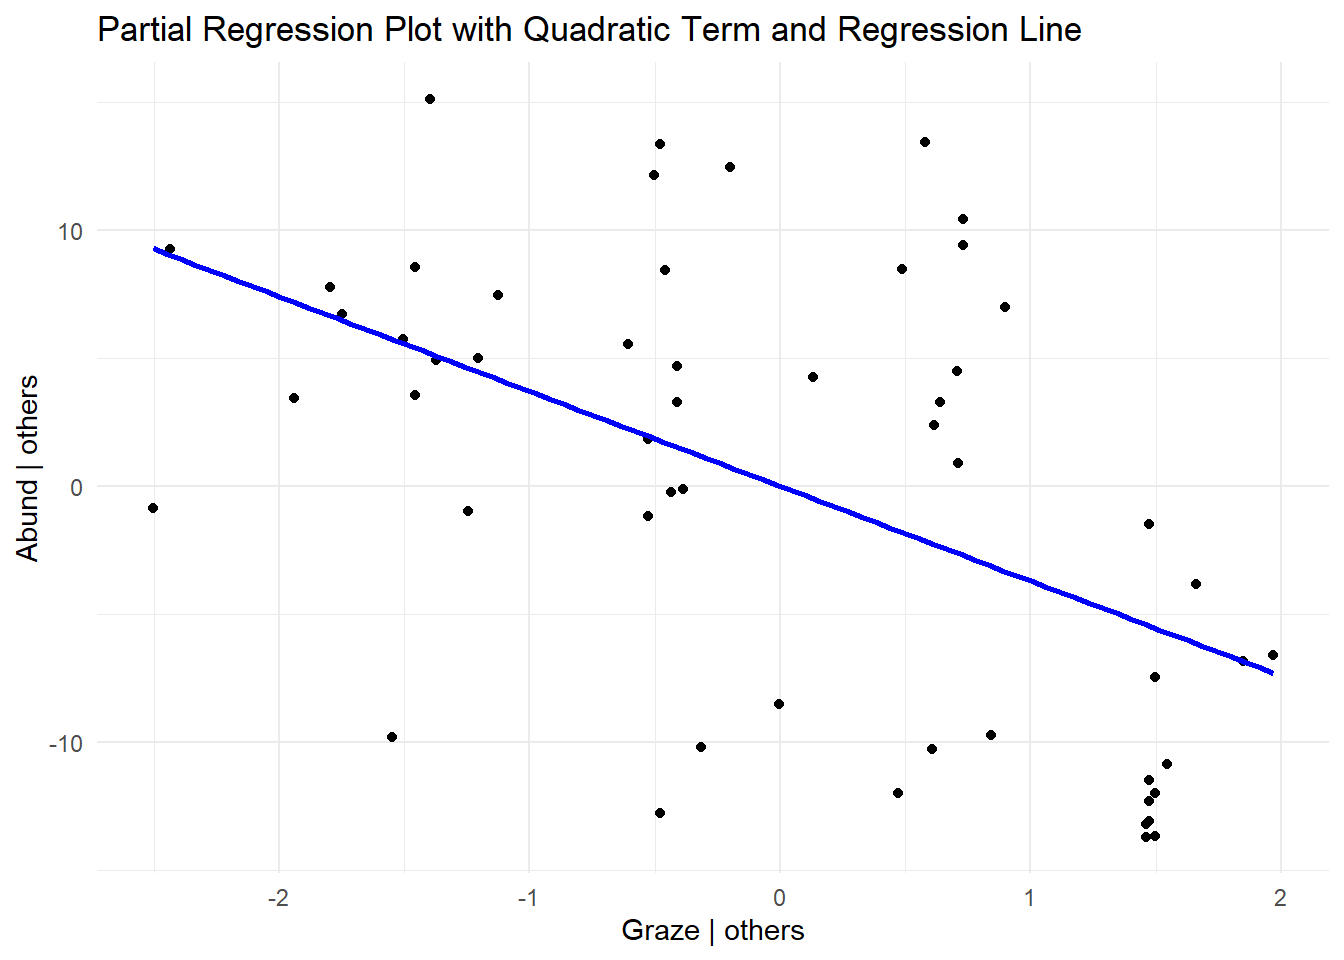
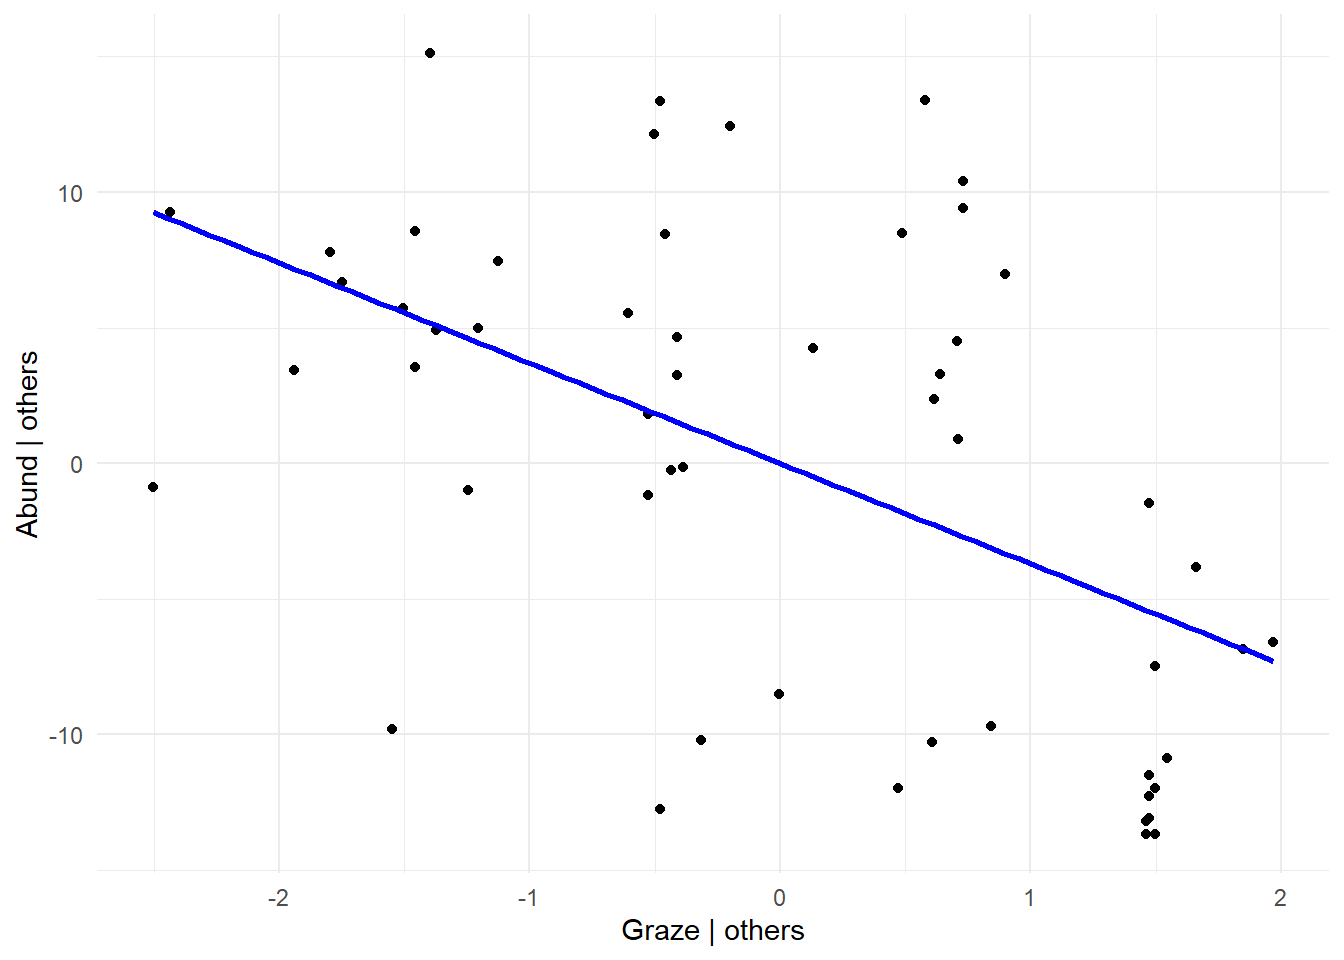
Built site for gh-pages

diff --git a/statistik/Statistik4_Demo.html b/statistik/Statistik4_Demo.html
@@ -642,7 +642,7 @@ ALT      0   0    0     0     0   1</code></pre>
 </div>
 <p>-&gt; Plot sieht zwar OK aus, aber mit 6 Prädiktoren für |&lt;60| Beobachtungen ist das Modell wohl “overfitted”</p>
 <div class="cell">
-<div class="sourceCode cell-code" id="cb13"><pre class="sourceCode r code-with-copy"><code class="sourceCode r"><span id="cb13-1"><a href="#cb13-1" aria-hidden="true" tabindex="-1"></a><span class="co"># Andere Vatiante, um korrelierte Prädiktoren zu finden (üblicher Schwellenwert VIF = 5)</span></span>
+<div class="sourceCode cell-code" id="cb13"><pre class="sourceCode r code-with-copy"><code class="sourceCode r"><span id="cb13-1"><a href="#cb13-1" aria-hidden="true" tabindex="-1"></a><span class="co"># Andere Variante, um korrelierte Prädiktoren zu finden (üblicher Schwellenwert VIF = 5)</span></span>
 <span id="cb13-2"><a href="#cb13-2" aria-hidden="true" tabindex="-1"></a><span class="fu">p_load</span>(<span class="st">"car"</span>)</span>
 <span id="cb13-3"><a href="#cb13-3" aria-hidden="true" tabindex="-1"></a><span class="fu">vif</span>(lm_1)</span></code><button title="In die Zwischenablage kopieren" class="code-copy-button"><i class="bi"></i></button></pre></div>
 <div class="cell-output cell-output-stdout">
@@ -838,9 +838,8 @@ ALT   0.06061495  0.0610176713 0.121632624</code></pre>
 <span id="cb32-10"><a href="#cb32-10" aria-hidden="true" tabindex="-1"></a><span class="fu">ggplot</span>(<span class="at">data =</span> <span class="cn">NULL</span>, <span class="fu">aes</span>(<span class="at">x =</span> graze_resid, <span class="at">y =</span> abundance_resid)) <span class="sc">+</span></span>
 <span id="cb32-11"><a href="#cb32-11" aria-hidden="true" tabindex="-1"></a>  <span class="fu">geom_point</span>() <span class="sc">+</span></span>
 <span id="cb32-12"><a href="#cb32-12" aria-hidden="true" tabindex="-1"></a>  <span class="fu">geom_smooth</span>(<span class="at">method =</span> <span class="st">"lm"</span>, <span class="at">se =</span> <span class="cn">FALSE</span>, <span class="at">color =</span> <span class="st">"blue"</span>) <span class="sc">+</span></span>
-<span id="cb32-13"><a href="#cb32-13" aria-hidden="true" tabindex="-1"></a>  <span class="fu">labs</span>(<span class="at">x =</span> <span class="st">"Graze | others"</span>, <span class="at">y =</span> <span class="st">"Abund | others"</span>,</span>
-<span id="cb32-14"><a href="#cb32-14" aria-hidden="true" tabindex="-1"></a>       <span class="at">title =</span> <span class="st">"Partial Regression Plot with Quadratic Term and Regression Line"</span>) <span class="sc">+</span></span>
-<span id="cb32-15"><a href="#cb32-15" aria-hidden="true" tabindex="-1"></a>  <span class="fu">theme_minimal</span>()</span></code><button title="In die Zwischenablage kopieren" class="code-copy-button"><i class="bi"></i></button></pre></div>
+<span id="cb32-13"><a href="#cb32-13" aria-hidden="true" tabindex="-1"></a>  <span class="fu">labs</span>(<span class="at">x =</span> <span class="st">"Graze | others"</span>, <span class="at">y =</span> <span class="st">"Abund | others"</span>) <span class="sc">+</span></span>
+<span id="cb32-14"><a href="#cb32-14" aria-hidden="true" tabindex="-1"></a>  <span class="fu">theme_minimal</span>()</span></code><button title="In die Zwischenablage kopieren" class="code-copy-button"><i class="bi"></i></button></pre></div>
 <div class="cell-output-display">
 <div>
 <figure class="figure">
